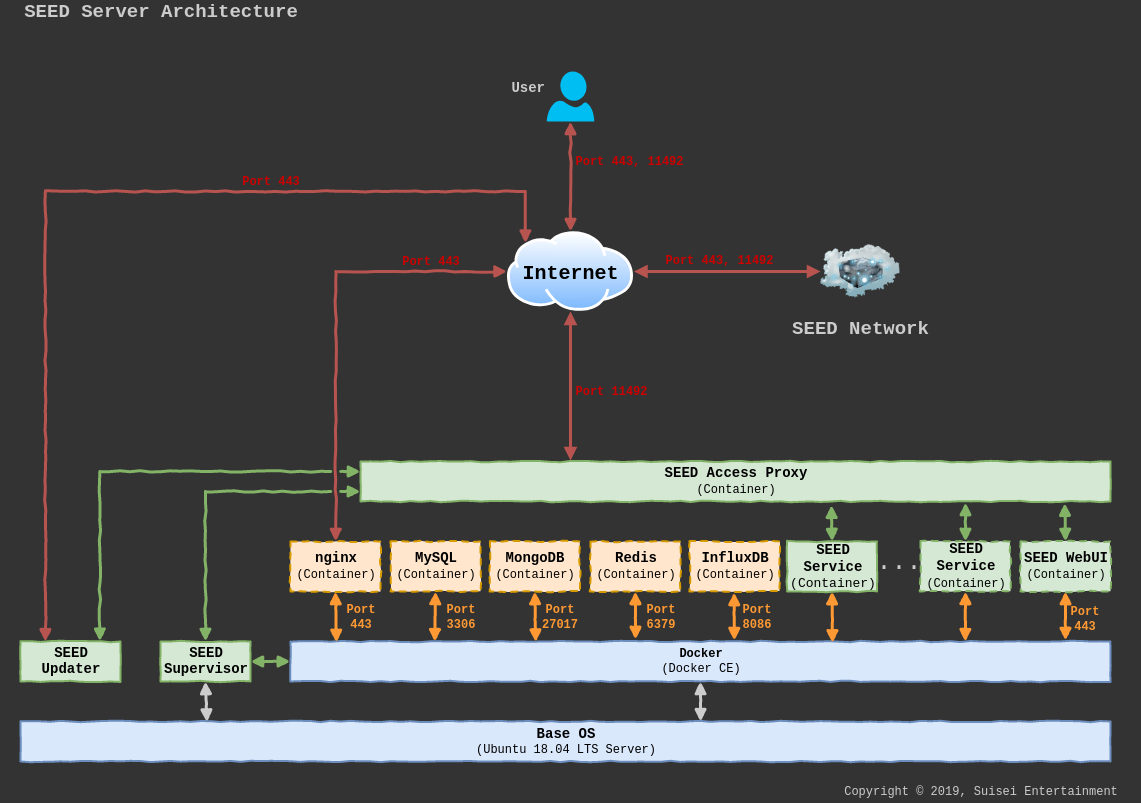
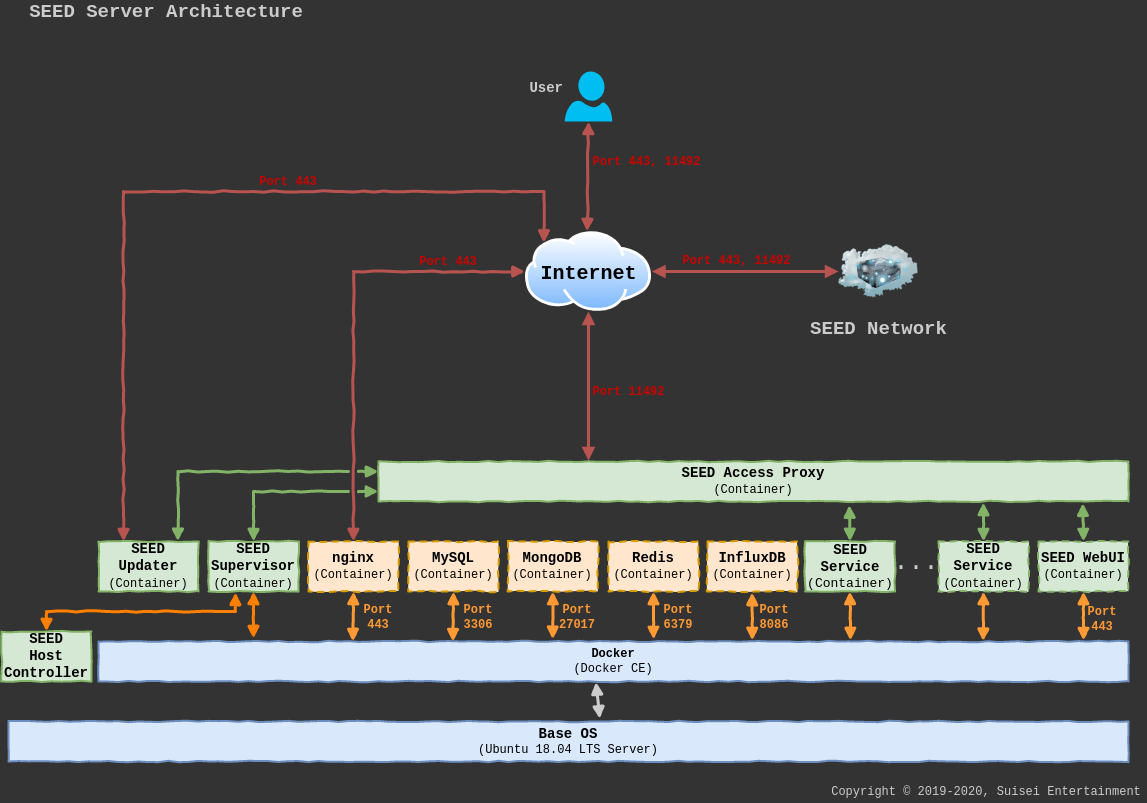
Small documentation updates.

diff --git a/development/architecture.rst b/development/architecture.rst
@@ -50,6 +50,9 @@ The main components of the SEED node are the following:
 - **SEED Access Proxy**: The SEED proxy acts as a router and defensive firewall
   between all SEED components. It is responsible for routing SEED protocol
   messages between the various components and external entitites.
+- **SEED Host Controller**: The SEED host controller is a daemon responsible to
+  make changes to the host system outside Docker based on the system
+  configuration applied to the supervisor daemon.
 
 Service Architecture
 -----------------------------

diff --git a/development/development_guide.rst b/development/development_guide.rst
@@ -65,6 +65,8 @@ interface plugin for CodeIntel.
   syntax highlighting for Dockerfile.
 * `Color Highlighter <https://packagecontrol.io/packages/Color%20Highlighter>`_: Underlays
   selected hexadecimal colorcodes.
+* `Terminus <https://github.com/randy3k/Terminus>`_: Allows opening terminals
+  inside Sublime 3.
 
 Directory Structure
 ----------------------------------
